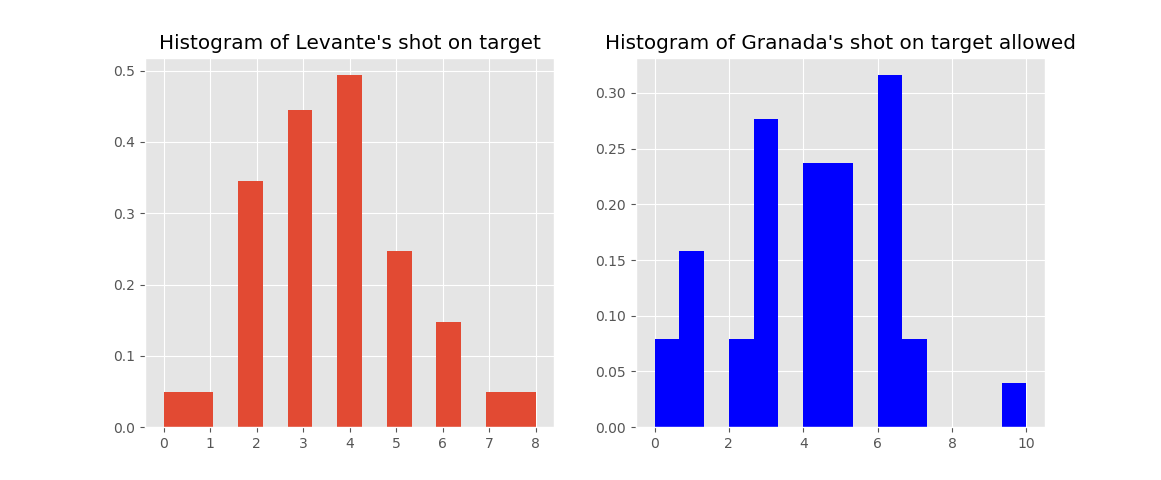
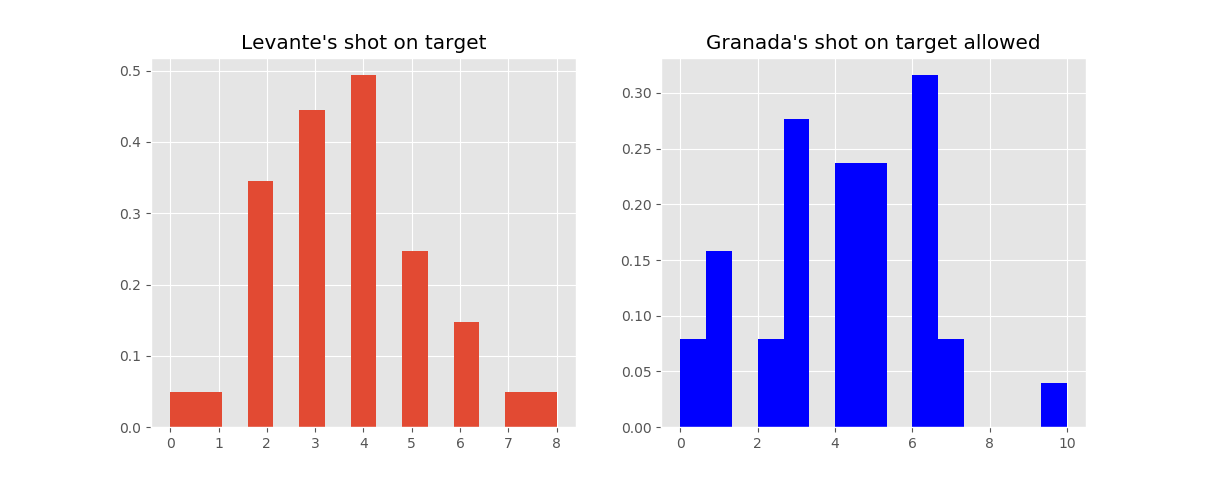
imgs

diff --git a/test.py b/test.py
@@ -10,30 +10,3 @@ def brier_score(prob_h, prob_d, prob_a, result):
 
     return (pow((prob_h - vector[0]), 2) + pow((prob_d - vector[1]), 2) + pow((prob_a - vector[2]), 2))/3
 
-
-
-        """x_d = np.linspace(-10, 20, 1000)
-
-        x = np.array(self.teams[team1].get_sot_list()).reshape(-1, 1)
-        y = np.array(self.teams[team2].get_sota_list()).reshape(-1, 1)
-
-        kernel = KernelDensity(bandwidth=1.0, kernel="gaussian")
-        kernel.fit(x)
-
-        kernel2 = KernelDensity(bandwidth=1.0, kernel="gaussian")
-        kernel2.fit(y)
-
-        logprob = kernel.score_samples(x_d[:, None])
-        logprob2 = kernel2.score_samples(x_d[:, None])
-
-        with plt.style.context('ggplot'):
-            fig, (ax1, ax2) = plt.subplots(1, 2)
-            
-            ax1.set_title("Histogram of Levante's shot on target")
-            ax1.hist(x, density=True, bins=15)
-
-            ax2.set_title("Histogram of Granada's shot on target allowed")
-            ax2.hist(y, color="blue", density=True, bins=15)
-            ax2.grid(True)
-
-        plt.show()"""

diff --git a/monte_carlo.py b/monte_carlo.py
@@ -29,8 +29,6 @@ class MonteCarlo():
         home = 0
         away = 0
 
-        x = np.array(self.teams[team1].get_sota_list()).reshape(-1, 1)
-
         for i in range(self.iterations):
             home_shots = home_kernel.sample()[0][0]
             away_shots = away_kernel.sample()[0][0]
